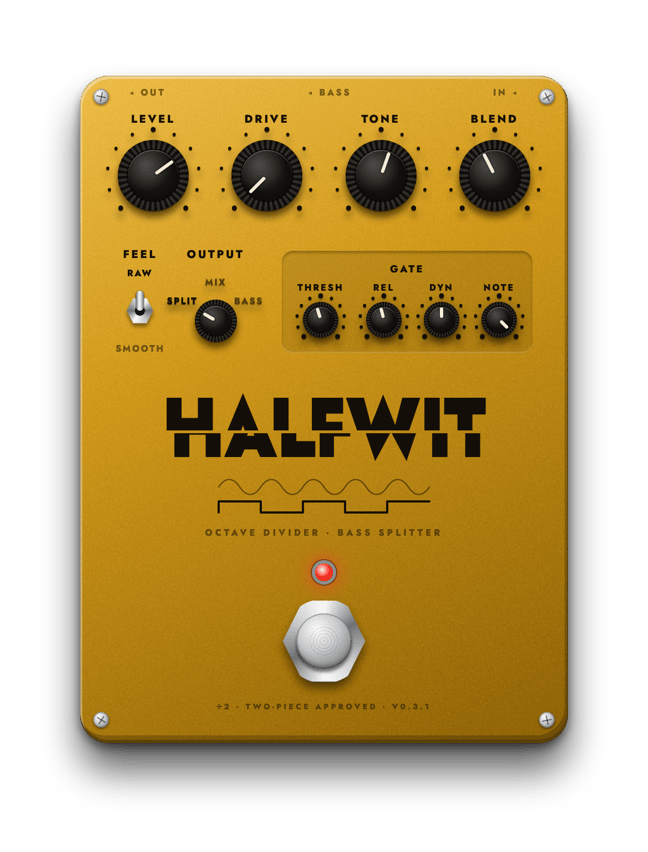
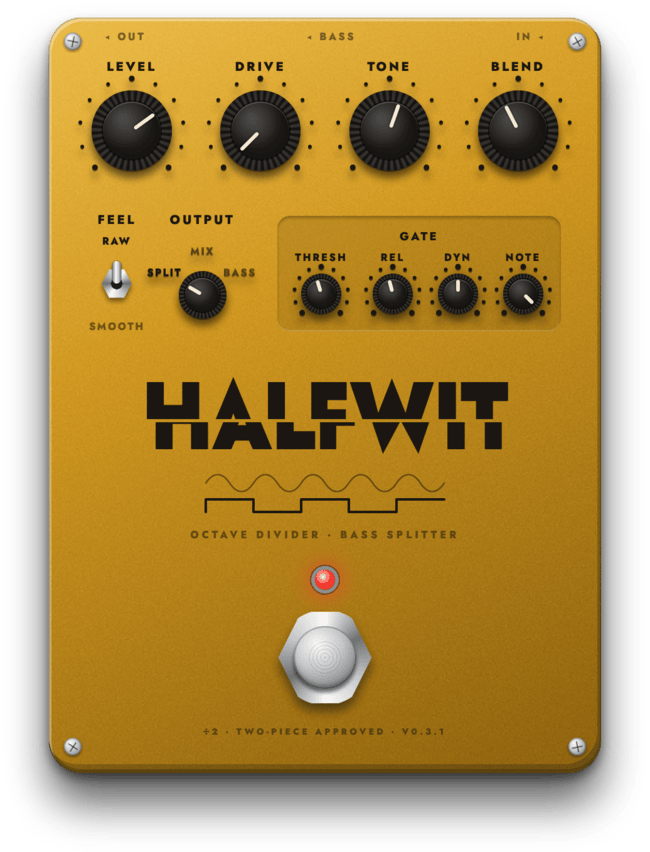
Crop screenshots to the object and its shadow
The margin added for the drop shadow made the screenshot taller than
the window, so after scaling the object filled less of the image and
sat above centre. The script now trims the transparent edges with
ImageMagick before scaling, and the workflow installs it.

Claude-Session: https://claude.ai/code/session_01M6vpxR81VaPY9T4oUmhAa4

diff --git a/.claude/skills/screenshot/SKILL.md b/.claude/skills/screenshot/SKILL.md
@@ -14,13 +14,14 @@ the `alt` text gets updated.
 1. Run `cargo test` so `ui/mock.json` is known to match the plugin's
    parameters and defaults, and the shot shows the real controls at
    their defaults. If it's stale, rewrite it with `BLESS=1 cargo test`.
-2. Run `scripts/screenshot.sh`. It needs `pngquant`
-   (`brew install pngquant`). It renders the page against its mock in
-   WebKit at 2x and `PAGE.size`, with the version from `Cargo.toml`.
-   It drops the `html` and `body` backgrounds, so the object sits on
-   transparency with its shadow. Then it writes `docs/<name>.png` 852 px
-   tall, quantized with pngquant, and sets the README `<img>` `width` to
-   half its pixel width. An older `docs/<name>.jpg` is deleted and the
+2. Run `scripts/screenshot.sh`. It needs pngquant and ImageMagick
+   (`brew install pngquant imagemagick`). It renders the page against
+   its mock in WebKit at 2x and `PAGE.size`, with the version from
+   `Cargo.toml`, plus a margin for the drop shadow. It drops the `html`
+   and `body` backgrounds, so the object sits on transparency with its
+   shadow. Then it crops to what's visible, writes `docs/<name>.png`
+   852 px tall, quantized with pngquant, and sets the README `<img>`
+   `width` to half its pixel width. An older `docs/<name>.jpg` is deleted and the
    README `<img>` pointed at the PNG.
 3. Look at the PNG. If fonts haven't loaded, a knob is mid-glide or the
    mock's values are off, fix that and rerun it. To see the

diff --git a/README.md b/README.md
@@ -1,6 +1,6 @@
 # Halfwit
 
-<img src="docs/halfwit.png" width="324" alt="Halfwit, a mustard-yellow stompbox with a row of level, drive, tone and blend knobs, a feel toggle, an output selector, a gate panel with threshold, release, dynamics and note knobs, and a footswitch">
+<img src="docs/halfwit.png" width="325" alt="Halfwit, a mustard-yellow stompbox with a row of level, drive, tone and blend knobs, a feel toggle, an output selector, a gate panel with threshold, release, dynamics and note knobs, and a footswitch">
 
 An octave-divider bass splitter for guitar, as a VST3 and CLAP plugin
 for macOS and Windows. It's for two-piece bands with no bass player: it
